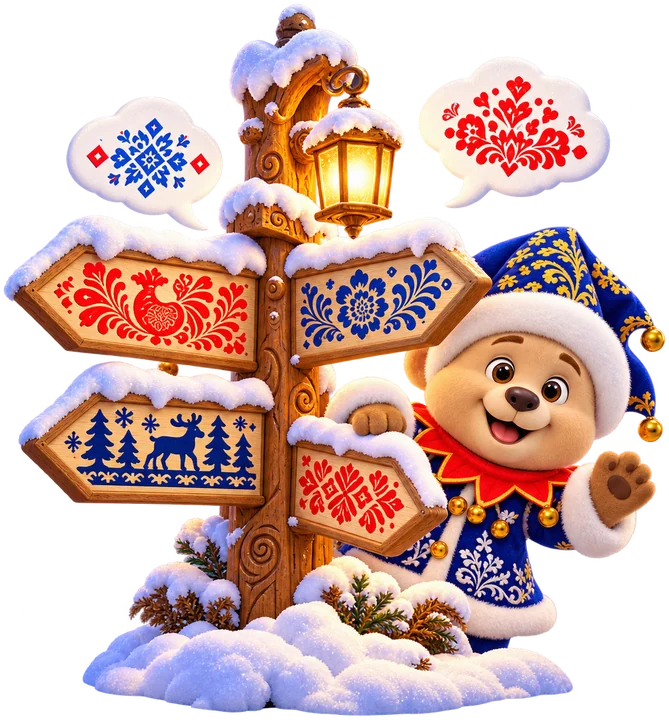
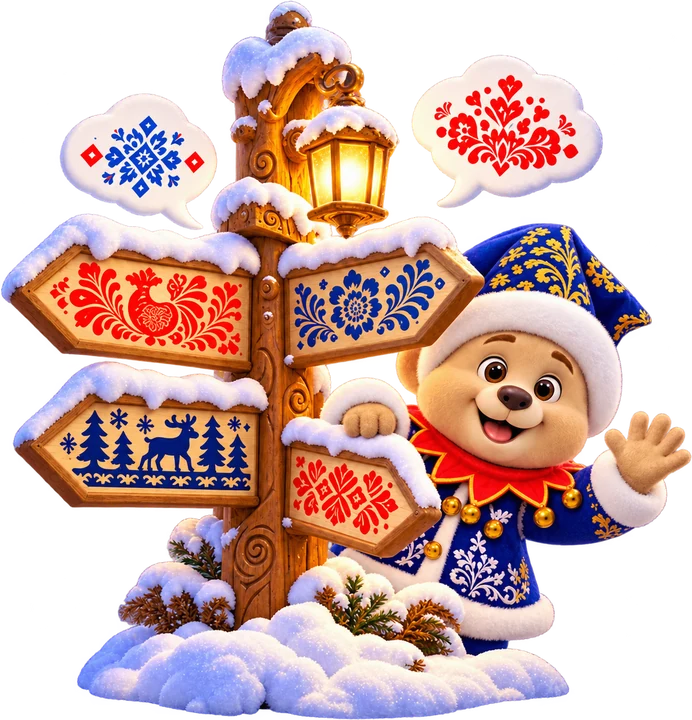
Канон персонажей: Борис и София на карте — по эталону
На главной перерисованы два элемента карты: у Бориса у указателя на поднятой
лапе пять пальцев и светлая ладонь без темных подушечек, у Софии у елки —
медно-рыжее каре вместо длинных волос. Раскладка карты пересчитана под новые
пропорции картинок. В ТЗ (раздел 8 и решение 88) — приметы героев уточнены
по концепции, добавлены эталон и проверка картинок по чек-листу.

Claude-Session: https://claude.ai/code/session_01LYGeS4oKDWhnx7gyPxsXxZ

diff --git a/assets/js/app.js b/assets/js/app.js
@@ -560,7 +560,7 @@ function talesOpen(){return D.TALES.filter(t=>st.day>=t.open).length;}
    кусты, пень, домики, фонари вдоль дороги (картинки из игры «Лес»); 4) элементы активностей, медальоны и подписи.
    Раскладка в единицах (ширина карты = 100, высота — H) собрана скриптом раскладки: дорога, фонари, искры, лес, где что стоит.
    Элементы и деревья перекрывают друг друга по глубине: что ниже на карте — то ближе */
-const RMAP={"m":{"H":345,"road":"M40 -8C38.33 -6.67 34 -2.83 30 0C26 2.83 19.33 5.33 16 9C12.67 12.67 10.5 17.5 10 22C9.5 26.5 12.83 31.33 13 36C13.17 40.67 11.67 45 11 50C10.33 55 8.83 61 9 66C9.17 71 11.83 75 12 80C12.17 85 10.67 90.67 10 96C9.33 101.33 7.83 107 8 112C8.17 117 10.67 121 11 126C11.33 131 10.5 136.67 10 142C9.5 147.33 8 152.67 8 158C8 163.33 9.83 168.67 10 174C10.17 179.33 8.67 184.67 9 190C9.33 195.33 11 200.67 12 206C13 211.33 14.5 219.33 15 222","trails":["M10 54C11.33 55.67 14.67 60.67 18 64C21.33 67.33 28 72.33 30 74","M10 148C11.33 149.67 14.67 155 18 158C21.33 161 28 164.67 30 166","M15 222C16.17 224.33 19.5 229.33 22 236C24.5 242.67 28 251.33 30 262C32 272.67 33.33 293.67 34 300"],"lamps":[[12.38,-4.25],[15.56,46.43],[6.61,71.55],[13.69,98.03],[5.55,122.68],[13.4,149.1],[3.8,174.66]],"glints":[[41.17,-6.57,0.28,2.24],[38.3,-5.24,0.36,1.81],[34.12,-3.87,0.33,0.34],[31.25,-0.18,0.4,2.63],[27.92,1.86,0.3,2.85],[25.08,2.02,0.37,2.18],[23.31,4.29,0.36,0.36],[21.22,5.92,0.35,1.01],[18.94,7.05,0.53,0.59],[17.78,10.2,0.47,0.76],[15.12,13.27,0.37,2.61],[13.21,16.89,0.53,2.27],[8.76,20.0,0.33,0.15],[9.36,24.48,0.44,0.45],[9.19,29.23,0.38,0.95],[11.34,33.13,0.49,1.28],[15.05,37.07,0.48,1.2],[11.01,40.9,0.42,0.61],[13.61,45.66,0.53,1.23],[10.56,49.56,0.29,2.61],[10.51,53.51,0.52,1.65],[11.44,56.18,0.37,0.85],[10.67,58.57,0.47,1.96],[9.68,60.93,0.32,1.45],[8.3,63.65,0.29,1.93],[11.04,67.88,0.4,2.44],[10.08,72.39,0.39,1.0],[10.39,76.67,0.38,1.64],[13.12,80.75,0.3,1.67],[12.5,85.15,0.36,2.43],[12.65,87.67,0.26,2.61],[11.47,90.0,0.47,0.63],[11.53,92.53,0.48,1.49],[9.84,94.75,0.36,2.06],[9.71,97.19,0.49,2.55],[11.2,99.93,0.52,1.15],[8.41,101.98,0.38,0.94],[7.28,104.32,0.54,0.38],[8.6,106.99,0.48,2.41],[5.95,111.25,0.4,0.22],[6.67,116.01,0.53,1.58],[9.78,119.64,0.38,2.35],[11.9,123.59,0.3,2.92],[12.77,128.29,0.5,2.1],[9.44,132.16,0.52,0.26],[9.54,134.58,0.25,0.38],[10.2,137.11,0.26,2.15],[8.25,139.37,0.44,1.58],[10.27,142.03,0.48,0.3],[10.57,144.52,0.53,0.58],[10.37,146.97,0.49,0.0],[8.78,149.17,0.55,0.84],[9.35,151.72,0.5,0.73],[8.13,153.99,0.41,0.09],[8.42,156.42,0.44,0.17],[9.34,158.76,0.52,1.94],[10.0,161.0,0.32,1.27],[9.08,163.51,0.4,2.09],[8.0,166.17,0.36,1.19],[11.47,168.04,0.34,2.54],[11.59,170.56,0.4,0.6],[8.81,173.27,0.31,1.4],[11.02,175.63,0.52,0.33],[9.33,177.96,0.43,2.69],[9.69,180.41,0.52,0.17],[8.94,182.75,0.53,0.16],[11.16,185.37,0.43,1.25],[8.05,187.58,0.31,1.35],[8.08,190.06,0.34,0.34],[11.04,192.17,0.3,0.57],[8.95,194.92,0.41,1.4],[10.88,197.03,0.47,2.52],[8.56,200.07,0.38,0.33],[12.94,201.6,0.27,1.26],[10.05,204.74,0.42,2.28],[12.66,206.72,0.48,0.93],[11.35,209.7,0.28,2.12],[14.47,211.99,0.41,1.34],[14.44,214.86,0.47,1.42],[13.61,217.69,0.32,1.88],[15.28,221.24,0.36,1.39]],"deco":[["tree_3",-10.4,-32.32,16.27,-6.0,1],["tree_2",95.83,-29.0,13.92,-6.0,0],["tree_3",87.82,-28.67,18.25,0.85,0],["tree_3",-13.63,-21.37,14.66,2.35,0],["lamp",10.58,-5.75,3.6,4.97,0],["tree_2",-12.63,-20.75,17.04,7.41,0],["tree_1",86.17,-25.99,14.48,11.62,0],["tree_3",-8.41,-16.5,17.96,12.56,0],["tree_3",89.06,-2.69,15.28,22.04,1],["tree_1",-11.97,-29.16,20.01,22.81,0],["birch",-13.79,-10.62,17.92,30.11,0],["tree_2",92.86,7.67,15.48,33.25,0],["tree_3",-6.76,10.82,16.61,37.69,0],["tree_3",82.7,11.94,18.79,42.34,1],["bush",36,37.35,11,45.0,0],["tree_3",-10.61,16.92,17.47,45.19,1],["tree_3",90.18,20.48,19.11,51.4,0],["tree_1",-12.61,7.95,17.17,52.55,1],["lamp",13.76,44.93,3.6,55.64,0],["tree_3",94.61,35.87,13.99,58.51,0],["tree_1",-7.98,22.87,14.57,60.73,0],["tree_3",89.41,39.66,16.63,66.57,0],["tree_2",-13.59,42.22,16.02,68.69,1],["tree_2",-9.47,51.87,15.06,76.77,0],["tree_3",87.73,55.96,13.4,77.64,0],["lamp",4.81,70.05,3.6,80.76,0],["tree_1",-11.87,35.49,17.91,82.0,1],["fg_7",3,80.88,10,86.0,0],["tree_2",88.63,58.7,16.93,86.68,0],["birch",86.14,58.02,16.59,95.71,0],["birch",-14.88,58.49,17.32,97.85,0],["tree_3",92.91,79.58,16.55,106.37,0],["lamp",11.89,96.53,3.6,107.24,0],["birch",-11.19,72.19,16.7,110.15,0],["tree_2",-15.43,86.33,18.28,116.54,0],["tree_3",96.88,93.78,14.82,117.76,1],["tree_2",89.12,100.17,15.92,126.48,1],["tree_2",-7.99,103.9,15.16,128.97,0],["stump",40,126.48,10,131.0,1],["lamp",3.75,121.18,3.6,131.9,0],["birch",88.09,103.37,13.51,134.08,1],["birch",90.78,100.08,19.58,144.57,1],["tree_3",92.06,123.64,19.77,155.64,1],["tree_3",-13.76,124.77,19.82,156.84,1],["lamp",11.6,147.6,3.6,158.31,0],["tree_3",-11.47,136.66,16.58,163.5,1],["birch",96.25,134.58,14.14,166.72,1],["tree_1",88.44,132.21,16.61,175.35,1],["fg_6",4,172.69,9,178.0,0],["tree_1",91.08,141.73,15.56,182.15,1],["tree_2",-9.62,155.92,16.79,183.68,1],["lamp",2.0,173.16,3.6,183.88,0],["tree_3",87.07,163.75,15.32,188.54,0],["tree_2",-15.5,154.85,20.89,189.38,1],["tree_3",-7.56,171.84,14.0,194.5,0],["tree_3",95.83,164.01,19.43,195.45,1],["tree_3",-6.88,178.53,14.49,201.98,1],["tree_3",87.69,181.7,13.28,203.19,1],["tree_1",-9.53,165.26,16.43,207.94,1],["tree_1",86.81,161.43,19.38,211.77,0],["tree_2",-11.62,180.43,20.84,214.89,1],["tree_1",-9.46,177.62,16.4,220.22,0],["tree_1",83.2,178.09,16.46,220.85,1],["tree_3",-10.38,202.31,15.44,227.28,0],["snowman",49,222.59,6,230.0,0],["tree_2",86.31,204.45,15.98,230.86,1],["bush",44,224.35,11,232.0,1],["fg_5",30,227.96,10,234.0,0],["tree_2",-0.91,215.3,12.52,236.0,0],["tree_3",96.29,213.65,14.82,237.64,1],["tree_1",-10.22,195.53,18.87,244.55,0],["tree_1",97.82,206.58,16.18,248.6,1],["tree_2",89.75,231.16,17.35,259.84,1],["tree_3",-14.19,234.53,19.18,265.57,1],["tree_2",85.83,243.38,14.13,266.73,0],["tree_1",-11.8,219.18,20.93,273.54,1],["tree_3",86.28,249.38,16.72,276.43,0],["tree_2",98.2,258.19,15.43,283.69,1],["tree_3",-14.05,263.1,16.55,289.89,1],["tree_3",89.96,263.33,16.54,290.09,1],["birch",88.11,258.78,17.61,298.8,1],["birch",-15.27,260.91,18.57,303.12,0],["tree_3",87.05,284.12,15.75,309.61,1],["tree_3",-11.0,280.33,19.48,311.84,1],["birch",94.47,284.44,14.39,317.15,1],["birch",-10.41,282.95,16.33,320.06,1],["tree_3",80.29,296.64,19.87,328.79,0],["fg_7",8,333.39,9,338.0,0],["tree_2",-9.01,306.76,19.79,339.46,1],["tree_2",83.34,313.37,16.02,339.84,0],["bush",44,335.35,11,343.0,1]],"items":{"quiz":{"el":[15,1,40],"med":[13,13],"pn":[57,8,41],"h":43.06},"serial":{"el":[20,46,36],"pn":[57,52,41],"h":33.0},"forest":{"el":[16,88,38],"med":[9.5,100],"pn":[57,96,41],"h":40.3},"izba":{"el":[21,135,33],"pn":[57,142,41],"h":33.13},"tree":{"el":[17,180,29],"med":[9,190],"pn":[57,188,41],"h":41.67},"ctree":{"el":[5,236,64],"pn":[61,246,37],"h":76.8},"chest":{"el":[22,303,28],"pn":[57,306,41],"h":23.97}},"fences":[[[10.95,6.28],[8.79,9.26],[7.04,12.45],[5.42,16.63],[4.61,20.07],[4.5,25.14],[5.32,28.77],[6.53,32.45],[7.19,34.76],[7.41,36.46],[7.25,39.11],[6.75,42.15],[6.19,44.92],[5.51,48.83],[5.06,51.79],[4.58,54.58]],[[15.64,70.66],[16.72,74.28],[17.44,77.82],[17.6,81.67],[17.33,85.27]],[[15.32,98.44],[14.83,101.4],[14.28,104.63],[13.84,107.63],[13.6,110.63],[13.67,112.8],[14.24,115.49],[15.0,118.05]],[[3.88,145.51],[3.35,148.68],[2.84,152.06],[2.48,155.65],[2.44,159.47],[2.74,162.73],[3.28,166.17],[3.84,169.34],[4.26,172.21],[4.41,174.81],[4.29,177.53],[3.97,180.55],[3.6,183.86],[3.36,187.46],[3.48,191.28]]],"roadW":6.2,"trailW":2.6},"d":{"H":104,"road":"M50 -6C49.83 -5 49.67 -2.33 49 0C48.33 2.33 46.33 5.33 46 8C45.67 10.67 46 13.67 47 16C48 18.33 50.83 20 52 22C53.17 24 54.17 26 54 28C53.83 30 52.17 32 51 34C49.83 36 47.5 37.67 47 40C46.5 42.33 47 45.67 48 48C49 50.33 52 52 53 54C54 56 54.5 58 54 60C53.5 62 51.17 64 50 66C48.83 68 47.17 69.67 47 72C46.83 74.33 48.67 78.67 49 80","trails":["M53 24C53.83 24.33 56.17 25.17 58 26C59.83 26.83 63 28.5 64 29","M53 56C53.83 56.17 56.33 56.67 58 57C59.67 57.33 62.17 57.83 63 58","M49 78C50.17 79.33 53.5 84 56 86C58.5 88 62.67 89.33 64 90"],"lamps":[[45.7,15.17],[56.5,26.04],[45.51,45.38],[57.16,53.13],[46.48,61.56],[51.23,72.8]],"glints":[[49.52,-6.07,0.51,1.24],[50.77,-3.52,0.36,1.19],[49.75,-0.96,0.42,0.08],[48.0,1.28,0.53,1.25],[47.23,3.31,0.4,0.94],[47.26,5.76,0.54,2.99],[45.55,7.5,0.43,0.19],[46.07,9.64,0.45,2.9],[46.68,11.64,0.52,2.7],[46.87,13.61,0.42,1.1],[46.22,16.59,0.53,0.2],[48.41,18.4,0.34,1.71],[50.54,19.16,0.31,2.04],[51.95,21.61,0.36,1.02],[52.47,24.23,0.27,0.17],[53.99,26.17,0.51,2.71],[53.27,28.32,0.32,0.41],[53.37,30.88,0.32,2.26],[50.86,32.44,0.35,0.18],[50.57,35.47,0.4,2.68],[49.3,38.01,0.53,0.63],[47.7,39.84,0.44,2.8],[45.92,42.33,0.32,0.18],[46.14,44.56,0.37,2.17],[47.99,46.34,0.32,1.51],[48.57,48.78,0.3,1.11],[49.48,50.97,0.26,0.97],[52.09,51.27,0.51,1.8],[52.1,54.64,0.28,0.93],[53.56,56.5,0.47,2.32],[53.01,58.61,0.47,1.93],[53.75,60.95,0.54,2.55],[52.35,63.32,0.29,2.53],[50.74,65.65,0.25,0.22],[48.8,67.49,0.44,2.47],[48.7,70.27,0.26,2.26],[47.37,72.19,0.35,0.35],[46.28,74.74,0.44,2.8],[47.85,76.87,0.37,2.22],[48.51,79.12,0.33,2.97]],"deco":[["tree_1",-5.75,-26.99,8.85,-4.0,1],["tree_2",97.11,-16.13,7.34,-4.0,1],["tree_2",37.21,-10.93,4.8,-3.0,1],["birch",69.37,-15.73,5.6,-3.0,1],["tree_3",97.65,-14.62,7.76,-2.07,1],["tree_3",16.81,-14.08,7.47,-2.0,0],["tree_2",76.99,-15.18,7.98,-2.0,0],["tree_2",62.06,-8.51,4.43,-1.18,0],["tree_2",0.81,-14.93,8.35,-1.12,1],["tree_3",94.61,-15.58,9.5,-0.21,1],["birch",36.96,-12.28,5.37,-0.08,1],["tree_3",22.07,-8.61,5.52,0.32,0],["tree_3",59.79,-7.09,5.33,1.53,0],["tree_2",-1.45,-14.09,9.47,1.56,1],["tree_2",77.67,-9.08,6.73,2.04,1],["tree_1",89.92,-18.83,8.34,2.82,0],["izba_2",31,-1.55,6.5,3.4,1],["tree_3",16.12,-8.17,7.39,3.78,0],["birch",58.36,-6.31,4.53,4.0,1],["tree_2",-7.83,-13.0,10.81,4.86,1],["izba_1",62,-0.42,7,5.0,0],["tree_3",77.2,-6.86,7.58,5.4,0],["tree_2",96.88,-12.46,10.91,5.56,1],["tree_3",-7.88,-7.75,9.03,6.85,0],["tree_2",13.08,-3.03,6.51,7.72,0],["tree_3",91.96,-4.9,7.93,7.93,1],["tree_1",76.6,-5.07,5.02,7.97,1],["tree_1",-7.22,-17.5,10.55,9.9,1],["birch",100.02,-7.08,7.48,9.92,1],["birch",14.68,-3.97,6.25,10.23,0],["tree_1",73.59,-7.77,7.3,11.21,1],["tree_3",91.57,-1.46,8.87,12.9,0],["tree_1",-0.17,-14.47,10.56,12.96,1],["tree_2",18.56,4.96,5.28,13.69,1],["tree_3",97.32,3.48,7.02,14.84,1],["birch",1.28,-0.99,7.17,15.31,0],["tree_2",94.47,1.45,9.44,17.06,1],["tree_1",17.44,-3.28,7.85,17.11,0],["tree_2",-6.87,3.14,8.52,17.22,1],["tree_1",79.48,-1.92,7.64,17.94,1],["lamp",44.85,14.46,1.7,19.52,0],["tree_3",-9.16,3.35,10.4,20.19,0],["tree_1",95.6,-2.84,8.9,20.28,1],["tree_1",78.6,2.99,6.69,20.36,0],["tree_2",15.64,9.3,6.94,20.77,0],["tree_1",90.34,1.15,8.1,22.19,1],["tree_1",-9.12,-4.72,10.41,22.31,1],["tree_2",97.84,6.5,10.93,24.56,0],["tree_2",-1.81,13.29,7.07,24.98,0],["tree_2",14.84,16.4,5.89,26.13,0],["tree_3",-1.25,15.33,7.28,27.1,1],["tree_2",88.86,9.85,10.87,27.82,1],["tree_2",75.99,17.21,7.49,29.6,1],["tree_3",-0.65,17.39,7.69,29.83,1],["bush",41,26.52,5,30.0,0],["birch",16.43,16.28,6.11,30.17,0],["tree_3",93.33,16.88,8.29,30.29,0],["lamp",55.65,25.33,1.7,30.39,0],["tree_2",37.03,22.79,4.61,30.4,1],["tree_3",-1.41,16.32,9.73,32.07,0],["tree_1",93.09,12.38,7.84,32.73,1],["birch",-3.54,18.57,7.14,34.79,0],["tree_2",16.01,26.86,5.14,35.36,0],["tree_2",91.45,21.41,8.82,35.99,1],["tree_2",59.34,27.61,5.4,36.53,1],["birch",-4.85,16.36,9.02,36.86,0],["tree_2",77.67,25.15,7.33,37.27,1],["tree_3",90.43,25.89,7.68,38.32,1],["tree_3",59.43,31.64,4.62,39.12,1],["tree_2",-0.38,22.91,10.1,39.6,1],["tree_2",71.34,26.9,7.73,39.68,0],["birch",89.57,16.65,10.59,40.71,0],["fg_7",61,38.7,4.5,41.0,1],["tree_3",-4.21,29.1,8.46,42.8,0],["tree_3",18.37,32.35,6.72,43.22,1],["birch",96.64,22.67,9.4,44.03,1],["tree_3",-4.25,34.07,7.07,45.51,1],["tree_2",96.53,32.91,8.34,46.7,1],["birch",16.7,34.13,5.58,46.81,0],["tree_1",-0.24,24.87,8.78,47.67,1],["tree_3",94.07,32.84,9.91,48.87,1],["birch",77.86,36.46,5.58,49.14,1],["lamp",44.66,44.68,1.7,49.74,0],["tree_2",-8.28,34.94,9.07,49.93,0],["tree_3",89.38,33.43,10.67,50.7,1],["tree_3",16.58,42.51,5.1,50.76,1],["tree_1",81.25,38.48,5.26,52.16,0],["birch",-0.72,32.58,8.99,53.01,0],["tree_3",16.54,41.59,7.39,53.55,0],["tree_3",93.7,42.35,7.17,53.95,0],["tree_3",75.28,46.56,5.06,54.75,1],["tree_2",0.85,39.08,9.59,54.93,1],["birch",19.76,42.09,6.08,55.9,1],["tree_2",95.41,39.78,10.16,56.57,1],["tree_3",75.22,48.62,5.32,57.22,0],["tree_1",-7.83,30.22,10.44,57.33,1],["lamp",56.31,52.42,1.7,57.48,0],["tree_2",27.82,50.6,4.69,58.35,0],["fg_6",74,56.64,4,59.0,0],["tree_3",94.57,45.17,9.02,59.77,1],["stump",36,57.96,4.5,60.0,0],["tree_2",-8.75,42.88,10.5,60.24,0],["tree_1",79.37,46.99,5.4,61.03,1],["tree_2",-3.33,44.5,10.79,62.33,1],["birch",14.57,47.6,6.53,62.43,0],["tree_2",95.77,50.17,7.81,63.07,0],["tree_2",-4.97,51.29,7.83,64.24,1],["lamp",45.63,60.85,1.7,65.91,0],["tree_3",90.24,53.62,7.71,66.1,0],["tree_2",17.48,54.74,6.93,66.2,1],["tree_1",77.26,50.65,6.39,67.26,0],["tree_2",-2.45,53.85,8.14,67.31,1],["birch",93.81,47.69,8.92,67.96,0],["birch",-7.43,48.3,9.22,69.26,1],["tree_3",94.44,56.75,8.14,69.92,0],["tree_2",76.78,59.04,6.96,70.54,1],["tree_2",-2.74,56.02,9.25,71.3,0],["birch",96.62,53.18,8.32,72.1,0],["tree_3",18.11,59.82,7.94,72.67,1],["tree_1",90.21,52.93,8.11,74.0,1],["tree_3",0.75,61.06,8.1,74.16,1],["tree_3",-6.31,64.49,7.19,76.13,0],["tree_3",18.49,65.67,6.56,76.28,1],["tree_2",78.78,65.24,6.84,76.53,1],["tree_2",93.7,61.04,9.68,77.04,1],["lamp",50.38,72.1,1.7,77.16,0],["tree_3",0.77,66.86,7.65,79.23,1],["tree_2",78.09,70.21,5.46,79.23,1],["tree_1",19.84,63.74,6.14,79.69,0],["tree_2",92.4,67.57,7.54,80.02,1],["tree_3",-4.8,66.64,9.37,81.79,1],["tree_3",99.64,68.85,8.69,82.91,0],["tree_3",20.02,75.35,5.22,83.8,1],["tree_3",-8.73,66.91,10.79,84.36,0],["tree_2",93.23,71.0,8.98,85.85,0],["tree_2",-3.23,71.65,9.34,87.09,0],["tree_3",15.22,75.06,7.67,87.47,1],["birch",99.27,69.17,8.75,89.05,0],["tree_2",-0.54,72.16,10.64,89.75,0],["tree_3",18.73,79.1,7.42,91.11,1],["snowman",43,88.54,2.8,92.0,0],["tree_2",97.48,74.36,10.86,92.31,1],["tree_3",-0.42,81.32,7.26,93.06,1],["tree_3",91.42,80.14,8.88,94.51,0],["tree_2",12.92,82.56,7.32,94.65,0],["fg_5",33,91.98,5,95.0,0],["tree_2",0.48,81.4,8.81,95.97,0],["tree_3",25.71,87.67,5.53,96.61,0],["tree_2",79.91,87.79,5.69,97.19,0],["birch",91.65,76.97,9.16,97.79,0],["fg_7",52,95.95,4,98.0,0],["tree_2",16.35,85.92,7.46,98.26,0],["tree_3",1.23,87.33,7.12,98.85,1],["tree_3",94.88,83.69,9.87,99.65,1],["tree_2",27.34,91.46,5.1,99.89,1],["bush",73,97.52,5,101.0,1],["tree_2",15.02,93.25,5.22,101.89,0],["tree_3",-4.0,85.9,9.92,101.95,1],["tree_2",41.7,92.69,5.84,102.34,1],["tree_3",93.24,89.61,8.13,102.77,1],["birch",72.85,88.07,7.0,103.98,1]],"items":{"quiz":{"el":[24,2.5,20],"med":[46.4,7],"pn":[3,7,19],"h":21.53},"serial":{"el":[58,13,18],"pn":[79,15,19],"h":16.5},"forest":{"el":[25,32,19],"med":[49.5,37.5],"pn":[3,37,19],"h":20.15},"izba":{"el":[59,44,16],"pn":[79,45,19],"h":16.06},"tree":{"el":[27,62,15],"med":[49.2,67.5],"pn":[3,67,19],"h":21.55},"ctree":{"el":[55,61,23],"pn":[79,65,19],"h":27.6},"chest":{"el":[60,86,12],"pn":[79,86.5,19],"h":10.27}},"fences":[[[50.95,3.03],[50.2,4.68],[49.67,5.84],[49.25,6.92],[48.92,8.12],[48.79,9.36],[48.78,10.39],[48.88,11.78],[49.04,12.78],[49.41,14.17],[49.84,15.19]],[[49.41,23.32],[50.04,24.42],[50.6,25.56],[50.96,26.54],[51.11,27.33],[51.09,27.91],[50.69,28.95],[50.05,30.07],[49.5,30.93],[48.61,32.34],[47.91,33.37],[46.9,34.57]],[[49.92,44.32],[50.25,45.68],[50.6,46.7],[51.12,47.58],[51.71,48.24],[52.81,49.32],[53.91,50.41],[55.32,52.2],[56.16,53.96],[56.74,55.67],[57.06,57.49],[56.95,60.06]]],"roadW":3.4,"trailW":1.4}};
+const RMAP={"m":{"H":345,"road":"M40 -8C38.33 -6.67 34 -2.83 30 0C26 2.83 19.33 5.33 16 9C12.67 12.67 10.5 17.5 10 22C9.5 26.5 12.83 31.33 13 36C13.17 40.67 11.67 45 11 50C10.33 55 8.83 61 9 66C9.17 71 11.83 75 12 80C12.17 85 10.67 90.67 10 96C9.33 101.33 7.83 107 8 112C8.17 117 10.67 121 11 126C11.33 131 10.5 136.67 10 142C9.5 147.33 8 152.67 8 158C8 163.33 9.83 168.67 10 174C10.17 179.33 8.67 184.67 9 190C9.33 195.33 11 200.67 12 206C13 211.33 14.5 219.33 15 222","trails":["M10 54C11.33 55.67 14.67 60.67 18 64C21.33 67.33 28 72.33 30 74","M10 148C11.33 149.67 14.67 155 18 158C21.33 161 28 164.67 30 166","M15 222C16.17 224.33 19.5 229.33 22 236C24.5 242.67 28 251.33 30 262C32 272.67 33.33 293.67 34 300"],"lamps":[[12.38,-4.25],[15.84,44.79],[6.57,70.48],[13.69,98.03],[5.55,122.68],[13.4,149.1],[3.8,174.66]],"glints":[[41.17,-6.57,0.28,2.24],[38.3,-5.24,0.36,1.81],[34.12,-3.87,0.33,0.34],[31.25,-0.18,0.4,2.63],[27.92,1.86,0.3,2.85],[25.08,2.02,0.37,2.18],[23.31,4.29,0.36,0.36],[21.22,5.92,0.35,1.01],[18.94,7.05,0.53,0.59],[17.78,10.2,0.47,0.76],[15.12,13.27,0.37,2.61],[13.21,16.89,0.53,2.27],[8.76,20.0,0.33,0.15],[9.36,24.48,0.44,0.45],[9.19,29.23,0.38,0.95],[11.34,33.13,0.49,1.28],[15.05,37.07,0.48,1.2],[11.01,40.9,0.42,0.61],[13.61,45.66,0.53,1.23],[10.56,49.56,0.29,2.61],[10.51,53.51,0.52,1.65],[11.44,56.18,0.37,0.85],[10.67,58.57,0.47,1.96],[9.68,60.93,0.32,1.45],[8.3,63.65,0.29,1.93],[11.04,67.88,0.4,2.44],[10.08,72.39,0.39,1.0],[10.39,76.67,0.38,1.64],[13.12,80.75,0.3,1.67],[12.5,85.15,0.36,2.43],[12.65,87.67,0.26,2.61],[11.47,90.0,0.47,0.63],[11.53,92.53,0.48,1.49],[9.84,94.75,0.36,2.06],[9.71,97.19,0.49,2.55],[11.2,99.93,0.52,1.15],[8.41,101.98,0.38,0.94],[7.28,104.32,0.54,0.38],[8.6,106.99,0.48,2.41],[5.95,111.25,0.4,0.22],[6.67,116.01,0.53,1.58],[9.78,119.64,0.38,2.35],[11.9,123.59,0.3,2.92],[12.77,128.29,0.5,2.1],[9.44,132.16,0.52,0.26],[9.54,134.58,0.25,0.38],[10.2,137.11,0.26,2.15],[8.25,139.37,0.44,1.58],[10.27,142.03,0.48,0.3],[10.57,144.52,0.53,0.58],[10.37,146.97,0.49,0.0],[8.78,149.17,0.55,0.84],[9.35,151.72,0.5,0.73],[8.13,153.99,0.41,0.09],[8.42,156.42,0.44,0.17],[9.34,158.76,0.52,1.94],[10.0,161.0,0.32,1.27],[9.08,163.51,0.4,2.09],[8.0,166.17,0.36,1.19],[11.47,168.04,0.34,2.54],[11.59,170.56,0.4,0.6],[8.81,173.27,0.31,1.4],[11.02,175.63,0.52,0.33],[9.33,177.96,0.43,2.69],[9.69,180.41,0.52,0.17],[8.94,182.75,0.53,0.16],[11.16,185.37,0.43,1.25],[8.05,187.58,0.31,1.35],[8.08,190.06,0.34,0.34],[11.04,192.17,0.3,0.57],[8.95,194.92,0.41,1.4],[10.88,197.03,0.47,2.52],[8.56,200.07,0.38,0.33],[12.94,201.6,0.27,1.26],[10.05,204.74,0.42,2.28],[12.66,206.72,0.48,0.93],[11.35,209.7,0.28,2.12],[14.47,211.99,0.41,1.34],[14.44,214.86,0.47,1.42],[13.61,217.69,0.32,1.88],[15.28,221.24,0.36,1.39]],"deco":[["tree_3",-10.4,-32.32,16.27,-6.0,1],["tree_2",95.83,-29.0,13.92,-6.0,0],["tree_3",87.82,-28.67,18.25,0.85,0],["tree_3",-13.63,-21.37,14.66,2.35,0],["lamp",10.58,-5.75,3.6,4.97,0],["tree_2",-12.63,-20.75,17.04,7.41,0],["tree_1",86.17,-25.99,14.48,11.62,0],["tree_3",-8.41,-16.5,17.96,12.56,0],["tree_3",89.06,-2.69,15.28,22.04,1],["tree_1",-11.97,-29.16,20.01,22.81,0],["birch",-13.79,-10.62,17.92,30.11,0],["tree_2",92.86,7.67,15.48,33.25,0],["tree_3",-6.76,10.82,16.61,37.69,0],["tree_3",82.7,11.94,18.79,42.34,1],["bush",36,37.35,11,45.0,0],["tree_3",-10.61,16.92,17.47,45.19,1],["tree_3",90.18,20.48,19.11,51.4,0],["tree_1",-12.61,7.95,17.17,52.55,1],["lamp",14.04,43.29,3.6,54.0,0],["tree_3",94.61,35.87,13.99,58.51,0],["tree_1",-7.98,22.87,14.57,60.73,0],["tree_3",89.41,39.66,16.63,66.57,0],["tree_2",-13.59,42.22,16.02,68.69,1],["tree_2",-9.47,51.87,15.06,76.77,0],["tree_3",87.73,55.96,13.4,77.64,0],["lamp",4.77,68.98,3.6,79.7,0],["tree_1",-11.87,35.49,17.91,82.0,1],["fg_7",3,80.88,10,86.0,0],["tree_2",88.63,58.7,16.93,86.68,0],["birch",86.14,58.02,16.59,95.71,0],["birch",-14.88,58.49,17.32,97.85,0],["tree_3",92.91,79.58,16.55,106.37,0],["lamp",11.89,96.53,3.6,107.24,0],["birch",-11.19,72.19,16.7,110.15,0],["tree_2",-15.43,86.33,18.28,116.54,0],["tree_3",96.88,93.78,14.82,117.76,1],["tree_2",89.12,100.17,15.92,126.48,1],["tree_2",-7.99,103.9,15.16,128.97,0],["stump",40,126.48,10,131.0,1],["lamp",3.75,121.18,3.6,131.9,0],["birch",88.09,103.37,13.51,134.08,1],["birch",90.78,100.08,19.58,144.57,1],["tree_3",92.06,123.64,19.77,155.64,1],["tree_3",-13.76,124.77,19.82,156.84,1],["lamp",11.6,147.6,3.6,158.31,0],["tree_3",-11.47,136.66,16.58,163.5,1],["birch",96.25,134.58,14.14,166.72,1],["tree_1",88.44,132.21,16.61,175.35,1],["fg_6",4,172.69,9,178.0,0],["tree_1",91.08,141.73,15.56,182.15,1],["tree_2",-9.62,155.92,16.79,183.68,1],["lamp",2.0,173.16,3.6,183.88,0],["tree_3",87.07,163.75,15.32,188.54,0],["tree_2",-15.5,154.85,20.89,189.38,1],["tree_3",-7.56,171.84,14.0,194.5,0],["tree_3",95.83,164.01,19.43,195.45,1],["tree_3",-6.88,178.53,14.49,201.98,1],["tree_3",87.69,181.7,13.28,203.19,1],["tree_1",-9.53,165.26,16.43,207.94,1],["tree_1",86.81,161.43,19.38,211.77,0],["tree_2",-11.62,180.43,20.84,214.89,1],["tree_1",-9.46,177.62,16.4,220.22,0],["tree_1",83.2,178.09,16.46,220.85,1],["tree_3",-10.38,202.31,15.44,227.28,0],["snowman",49,222.59,6,230.0,0],["tree_2",86.31,204.45,15.98,230.86,1],["bush",44,224.35,11,232.0,1],["fg_5",30,227.96,10,234.0,0],["tree_2",-0.91,215.3,12.52,236.0,0],["tree_3",96.29,213.65,14.82,237.64,1],["tree_1",-10.22,195.53,18.87,244.55,0],["tree_1",97.82,206.58,16.18,248.6,1],["tree_2",89.75,231.16,17.35,259.84,1],["tree_3",-14.19,234.53,19.18,265.57,1],["tree_2",85.83,243.38,14.13,266.73,0],["tree_1",-11.8,219.18,20.93,273.54,1],["tree_3",86.28,249.38,16.72,276.43,0],["tree_2",98.2,258.19,15.43,283.69,1],["tree_3",-14.05,263.1,16.55,289.89,1],["tree_3",89.96,263.33,16.54,290.09,1],["birch",88.11,258.78,17.61,298.8,1],["birch",-15.27,260.91,18.57,303.12,0],["tree_3",87.05,284.12,15.75,309.61,1],["tree_3",-11.0,280.33,19.48,311.84,1],["birch",94.47,284.44,14.39,317.15,1],["birch",-10.41,282.95,16.33,320.06,1],["tree_3",80.29,296.64,19.87,328.79,0],["fg_7",8,333.39,9,338.0,0],["tree_2",-9.01,306.76,19.79,339.46,1],["tree_2",83.34,313.37,16.02,339.84,0],["bush",44,335.35,11,343.0,1]],"items":{"quiz":{"el":[15,1,40],"med":[13,13],"pn":[57,8,41],"h":41.62},"serial":{"el":[20,46,36],"pn":[57,52,41],"h":33.0},"forest":{"el":[16,88,38],"med":[9.5,100],"pn":[57,96,41],"h":40.3},"izba":{"el":[21,135,33],"pn":[57,142,41],"h":33.13},"tree":{"el":[17,180,29],"med":[9,190],"pn":[57,188,41],"h":43.61},"ctree":{"el":[5,236,64],"pn":[61,246,37],"h":76.8},"chest":{"el":[22,303,28],"pn":[57,306,41],"h":23.97}},"fences":[[[10.95,6.28],[8.79,9.26],[7.04,12.45],[5.42,16.63],[4.61,20.07],[4.5,25.14],[5.32,28.77],[6.53,32.45],[7.19,34.76],[7.41,36.46],[7.25,39.11],[6.75,42.15],[6.19,44.92],[5.51,48.83],[5.06,51.79],[4.58,54.58]],[[15.64,70.66],[16.72,74.28],[17.44,77.82],[17.6,81.67],[17.33,85.27]],[[15.32,98.44],[14.83,101.4],[14.28,104.63],[13.84,107.63],[13.6,110.63],[13.67,112.8],[14.24,115.49],[15.0,118.05]],[[3.88,145.51],[3.35,148.68],[2.84,152.06],[2.48,155.65],[2.44,159.47],[2.74,162.73],[3.28,166.17],[3.84,169.34],[4.26,172.21],[4.41,174.81],[4.29,177.53],[3.97,180.55],[3.6,183.86],[3.36,187.46],[3.48,191.28]]],"roadW":6.2,"trailW":2.6},"d":{"H":104,"road":"M50 -6C49.83 -5 49.67 -2.33 49 0C48.33 2.33 46.33 5.33 46 8C45.67 10.67 46 13.67 47 16C48 18.33 50.83 20 52 22C53.17 24 54.17 26 54 28C53.83 30 52.17 32 51 34C49.83 36 47.5 37.67 47 40C46.5 42.33 47 45.67 48 48C49 50.33 52 52 53 54C54 56 54.5 58 54 60C53.5 62 51.17 64 50 66C48.83 68 47.17 69.67 47 72C46.83 74.33 48.67 78.67 49 80","trails":["M53 24C53.83 24.33 56.17 25.17 58 26C59.83 26.83 63 28.5 64 29","M53 56C53.83 56.17 56.33 56.67 58 57C59.67 57.33 62.17 57.83 63 58","M49 78C50.17 79.33 53.5 84 56 86C58.5 88 62.67 89.33 64 90"],"lamps":[[45.7,15.17],[56.5,26.04],[45.51,45.38],[57.16,53.13],[46.48,61.56],[51.23,72.8]],"glints":[[49.52,-6.07,0.51,1.24],[50.77,-3.52,0.36,1.19],[49.75,-0.96,0.42,0.08],[48.0,1.28,0.53,1.25],[47.23,3.31,0.4,0.94],[47.26,5.76,0.54,2.99],[45.55,7.5,0.43,0.19],[46.07,9.64,0.45,2.9],[46.68,11.64,0.52,2.7],[46.87,13.61,0.42,1.1],[46.22,16.59,0.53,0.2],[48.41,18.4,0.34,1.71],[50.54,19.16,0.31,2.04],[51.95,21.61,0.36,1.02],[52.47,24.23,0.27,0.17],[53.99,26.17,0.51,2.71],[53.27,28.32,0.32,0.41],[53.37,30.88,0.32,2.26],[50.86,32.44,0.35,0.18],[50.57,35.47,0.4,2.68],[49.3,38.01,0.53,0.63],[47.7,39.84,0.44,2.8],[45.92,42.33,0.32,0.18],[46.14,44.56,0.37,2.17],[47.99,46.34,0.32,1.51],[48.57,48.78,0.3,1.11],[49.48,50.97,0.26,0.97],[52.09,51.27,0.51,1.8],[52.1,54.64,0.28,0.93],[53.56,56.5,0.47,2.32],[53.01,58.61,0.47,1.93],[53.75,60.95,0.54,2.55],[52.35,63.32,0.29,2.53],[50.74,65.65,0.25,0.22],[48.8,67.49,0.44,2.47],[48.7,70.27,0.26,2.26],[47.37,72.19,0.35,0.35],[46.28,74.74,0.44,2.8],[47.85,76.87,0.37,2.22],[48.51,79.12,0.33,2.97]],"deco":[["tree_1",-5.75,-26.99,8.85,-4.0,1],["tree_2",97.11,-16.13,7.34,-4.0,1],["tree_2",37.21,-10.93,4.8,-3.0,1],["birch",69.37,-15.73,5.6,-3.0,1],["tree_3",97.65,-14.62,7.76,-2.07,1],["tree_3",16.81,-14.08,7.47,-2.0,0],["tree_2",76.99,-15.18,7.98,-2.0,0],["tree_2",62.06,-8.51,4.43,-1.18,0],["tree_2",0.81,-14.93,8.35,-1.12,1],["tree_3",94.61,-15.58,9.5,-0.21,1],["birch",36.96,-12.28,5.37,-0.08,1],["tree_3",22.07,-8.61,5.52,0.32,0],["tree_3",59.79,-7.09,5.33,1.53,0],["tree_2",-1.45,-14.09,9.47,1.56,1],["tree_2",77.67,-9.08,6.73,2.04,1],["tree_1",89.92,-18.83,8.34,2.82,0],["izba_2",31,-1.55,6.5,3.4,1],["tree_3",16.12,-8.17,7.39,3.78,0],["birch",58.36,-6.31,4.53,4.0,1],["tree_2",-7.83,-13.0,10.81,4.86,1],["izba_1",62,-0.42,7,5.0,0],["tree_3",77.2,-6.86,7.58,5.4,0],["tree_2",96.88,-12.46,10.91,5.56,1],["tree_3",-7.88,-7.75,9.03,6.85,0],["tree_2",13.08,-3.03,6.51,7.72,0],["tree_3",91.96,-4.9,7.93,7.93,1],["tree_1",76.6,-5.07,5.02,7.97,1],["tree_1",-7.22,-17.5,10.55,9.9,1],["birch",100.02,-7.08,7.48,9.92,1],["birch",14.68,-3.97,6.25,10.23,0],["tree_1",73.59,-7.77,7.3,11.21,1],["tree_3",91.57,-1.46,8.87,12.9,0],["tree_1",-0.17,-14.47,10.56,12.96,1],["tree_2",18.56,4.96,5.28,13.69,1],["tree_3",97.32,3.48,7.02,14.84,1],["birch",1.28,-0.99,7.17,15.31,0],["tree_2",94.47,1.45,9.44,17.06,1],["tree_1",17.44,-3.28,7.85,17.11,0],["tree_2",-6.87,3.14,8.52,17.22,1],["tree_1",79.48,-1.92,7.64,17.94,1],["lamp",44.85,14.46,1.7,19.52,0],["tree_3",-9.16,3.35,10.4,20.19,0],["tree_1",95.6,-2.84,8.9,20.28,1],["tree_1",78.6,2.99,6.69,20.36,0],["tree_2",15.64,9.3,6.94,20.77,0],["tree_1",90.34,1.15,8.1,22.19,1],["tree_1",-9.12,-4.72,10.41,22.31,1],["tree_2",97.84,6.5,10.93,24.56,0],["tree_2",-1.81,13.29,7.07,24.98,0],["tree_2",14.84,16.4,5.89,26.13,0],["tree_3",-1.25,15.33,7.28,27.1,1],["tree_2",88.86,9.85,10.87,27.82,1],["tree_2",75.99,17.21,7.49,29.6,1],["tree_3",-0.65,17.39,7.69,29.83,1],["bush",41,26.52,5,30.0,0],["birch",16.43,16.28,6.11,30.17,0],["tree_3",93.33,16.88,8.29,30.29,0],["lamp",55.65,25.33,1.7,30.39,0],["tree_2",37.03,22.79,4.61,30.4,1],["tree_3",-1.41,16.32,9.73,32.07,0],["tree_1",93.09,12.38,7.84,32.73,1],["birch",-3.54,18.57,7.14,34.79,0],["tree_2",16.01,26.86,5.14,35.36,0],["tree_2",91.45,21.41,8.82,35.99,1],["tree_2",59.34,27.61,5.4,36.53,1],["birch",-4.85,16.36,9.02,36.86,0],["tree_2",77.67,25.15,7.33,37.27,1],["tree_3",90.43,25.89,7.68,38.32,1],["tree_3",59.43,31.64,4.62,39.12,1],["tree_2",-0.38,22.91,10.1,39.6,1],["tree_2",71.34,26.9,7.73,39.68,0],["birch",89.57,16.65,10.59,40.71,0],["fg_7",61,38.7,4.5,41.0,1],["tree_3",-4.21,29.1,8.46,42.8,0],["tree_3",18.37,32.35,6.72,43.22,1],["birch",96.64,22.67,9.4,44.03,1],["tree_3",-4.25,34.07,7.07,45.51,1],["tree_2",96.53,32.91,8.34,46.7,1],["birch",16.7,34.13,5.58,46.81,0],["tree_1",-0.24,24.87,8.78,47.67,1],["tree_3",94.07,32.84,9.91,48.87,1],["birch",77.86,36.46,5.58,49.14,1],["lamp",44.66,44.68,1.7,49.74,0],["tree_2",-8.28,34.94,9.07,49.93,0],["tree_3",89.38,33.43,10.67,50.7,1],["tree_3",16.58,42.51,5.1,50.76,1],["tree_1",81.25,38.48,5.26,52.16,0],["birch",-0.72,32.58,8.99,53.01,0],["tree_3",16.54,41.59,7.39,53.55,0],["tree_3",93.7,42.35,7.17,53.95,0],["tree_3",75.28,46.56,5.06,54.75,1],["tree_2",0.85,39.08,9.59,54.93,1],["birch",19.76,42.09,6.08,55.9,1],["tree_2",95.41,39.78,10.16,56.57,1],["tree_3",75.22,48.62,5.32,57.22,0],["tree_1",-7.83,30.22,10.44,57.33,1],["lamp",56.31,52.42,1.7,57.48,0],["tree_2",27.82,50.6,4.69,58.35,0],["fg_6",74,56.64,4,59.0,0],["tree_3",94.57,45.17,9.02,59.77,1],["stump",36,57.96,4.5,60.0,0],["tree_2",-8.75,42.88,10.5,60.24,0],["tree_1",79.37,46.99,5.4,61.03,1],["tree_2",-3.33,44.5,10.79,62.33,1],["birch",14.57,47.6,6.53,62.43,0],["tree_2",95.77,50.17,7.81,63.07,0],["tree_2",-4.97,51.29,7.83,64.24,1],["lamp",45.63,60.85,1.7,65.91,0],["tree_3",90.24,53.62,7.71,66.1,0],["tree_2",17.48,54.74,6.93,66.2,1],["tree_1",77.26,50.65,6.39,67.26,0],["tree_2",-2.45,53.85,8.14,67.31,1],["birch",93.81,47.69,8.92,67.96,0],["birch",-7.43,48.3,9.22,69.26,1],["tree_3",94.44,56.75,8.14,69.92,0],["tree_2",76.78,59.04,6.96,70.54,1],["tree_2",-2.74,56.02,9.25,71.3,0],["birch",96.62,53.18,8.32,72.1,0],["tree_3",18.11,59.82,7.94,72.67,1],["tree_1",90.21,52.93,8.11,74.0,1],["tree_3",0.75,61.06,8.1,74.16,1],["tree_3",-6.31,64.49,7.19,76.13,0],["tree_3",18.49,65.67,6.56,76.28,1],["tree_2",78.78,65.24,6.84,76.53,1],["tree_2",93.7,61.04,9.68,77.04,1],["lamp",50.38,72.1,1.7,77.16,0],["tree_3",0.77,66.86,7.65,79.23,1],["tree_2",78.09,70.21,5.46,79.23,1],["tree_1",19.84,63.74,6.14,79.69,0],["tree_2",92.4,67.57,7.54,80.02,1],["tree_3",-4.8,66.64,9.37,81.79,1],["tree_3",99.64,68.85,8.69,82.91,0],["tree_3",20.02,75.35,5.22,83.8,1],["tree_3",-8.73,66.91,10.79,84.36,0],["tree_2",93.23,71.0,8.98,85.85,0],["tree_2",-3.23,71.65,9.34,87.09,0],["tree_3",15.22,75.06,7.67,87.47,1],["birch",99.27,69.17,8.75,89.05,0],["tree_2",-0.54,72.16,10.64,89.75,0],["tree_3",18.73,79.1,7.42,91.11,1],["snowman",43,88.54,2.8,92.0,0],["tree_2",97.48,74.36,10.86,92.31,1],["tree_3",-0.42,81.32,7.26,93.06,1],["tree_3",91.42,80.14,8.88,94.51,0],["tree_2",12.92,82.56,7.32,94.65,0],["fg_5",33,91.98,5,95.0,0],["tree_2",0.48,81.4,8.81,95.97,0],["tree_3",25.71,87.67,5.53,96.61,0],["tree_2",79.91,87.79,5.69,97.19,0],["birch",91.65,76.97,9.16,97.79,0],["fg_7",52,95.95,4,98.0,0],["tree_2",16.35,85.92,7.46,98.26,0],["tree_3",1.23,87.33,7.12,98.85,1],["tree_3",94.88,83.69,9.87,99.65,1],["tree_2",27.34,91.46,5.1,99.89,1],["bush",73,97.52,5,101.0,1],["tree_2",15.02,93.25,5.22,101.89,0],["tree_3",-4.0,85.9,9.92,101.95,1],["tree_2",41.7,92.69,5.84,102.34,1],["tree_3",93.24,89.61,8.13,102.77,1],["birch",72.85,88.07,7.0,103.98,1]],"items":{"quiz":{"el":[24,2.5,20],"med":[46.4,7],"pn":[3,7,19],"h":20.81},"serial":{"el":[58,13,18],"pn":[79,15,19],"h":16.5},"forest":{"el":[25,32,19],"med":[49.5,37.5],"pn":[3,37,19],"h":20.15},"izba":{"el":[59,44,16],"pn":[79,45,19],"h":16.06},"tree":{"el":[27,62,15],"med":[49.2,67.5],"pn":[3,67,19],"h":22.56},"ctree":{"el":[55,61,23],"pn":[79,65,19],"h":27.6},"chest":{"el":[60,86,12],"pn":[79,86.5,19],"h":10.27}},"fences":[[[50.95,3.03],[50.2,4.68],[49.67,5.84],[49.25,6.92],[48.92,8.12],[48.79,9.36],[48.78,10.39],[48.88,11.78],[49.04,12.78],[49.41,14.17],[49.84,15.19]],[[49.41,23.32],[50.04,24.42],[50.6,25.56],[50.96,26.54],[51.11,27.33],[51.09,27.91],[50.69,28.95],[50.05,30.07],[49.5,30.93],[48.61,32.34],[47.91,33.37],[46.9,34.57]],[[49.92,44.32],[50.25,45.68],[50.6,46.7],[51.12,47.58],[51.71,48.24],[52.81,49.32],[53.91,50.41],[55.32,52.2],[56.16,53.96],[56.74,55.67],[57.06,57.49],[56.95,60.06]]],"roadW":3.4,"trailW":1.4}};
 const RSPR={drift:'obstacle_drift',stump:'obstacle_stump'};
 let RM_H=100;
 const pc=(a,z)=>`left:${a[0]}%;top:${(a[1]/RM_H*100).toFixed(3)}%${a[2]!=null?`;width:${a[2]}%`:''}${z!=null?`;z-index:${z}`:''}`;

diff --git a/README.md b/README.md
@@ -632,8 +632,9 @@ PSB_NY_prototype/
 
 **Как рисуем маскотов** (решение 28 октября)
 - **Лапы** — у всех героев на всех картинках пять пальцев, как у руки, и ладонь того же светлого меха, что и вся лапа: без темных подушечек. Поднятая лапа развернута естественно.
-- **Каждого легко узнать.** У героев разные наряды и приметы: Михаил — Дед Мороз в синей шубе с серебряным узором, высокой шапке и с посохом; Мария — длинные темные волосы со снежинками, нарядное синее платье с мехом; Пётр — рыжий чуб, синий кафтан со снежинками; София — рыжее каре и синий бант, синее платье; Борис — костюм скомороха: синий бархат с золотой вышивкой, красный зубчатый воротник, колпак с бубенцами.
+- **Каждого легко узнать.** У героев разные наряды и приметы: Михаил — Дед Мороз в синей шубе с серебряным узором, высокой шапке, синих варежках и с посохом, в навершии которого солнце и месяц; Мария — длинные темные волосы со снежинками, нарядное синее платье с мехом; Пётр — светло-рыжий чуб и рыжие брови, синий кафтан со снежинками; София — медно-рыжее каре с косой чёлкой и синий бант, синее платье; Борис — костюм скомороха: синий бархат с золотой вышивкой, красный зубчатый воротник, колпак с бубенцами.
 - **Возраст и рост.** Борис — малыш с детской мордочкой; Пётр — подросток: выше и стройнее брата, длиннее руки и ноги, голова меньше относительно тела, чуть ниже родителей; София — между ними. Размеры героев сверяем на всех картинках.
+- **Эталон и проверка** (решение 30 октября). Эталон — портреты семьи из концепции, Борис — в костюме скомороха. Приметы, запреты, текст для промптов и чек-лист — в документе «Медведи: канон персонажей и проверка картинок». Картинку с героями перед отправкой проверяет по чек-листу не тот, кто её генерировал.
 
 ---
 
@@ -907,6 +908,7 @@ PSB_NY_prototype/
 | 85 | Книга — уголки | Снежные углы рамки не обрываются резко: края растворяются | 5 |
 | 86 | Избушка — список сказок | Список из 10 сказок окончательный, у каждой — обложка | 6.10 |
 | 87 | Главная — дорога | 30 октября: карта — не лента карточек, а дорога. Вечером — слоями, а не склейкой картинок: снежный фон, светящаяся дорога с ответвлениями, фонарями и заборчиками, лес и мелочи из игры «Лес», поверх — отдельные элементы: три испытания на главной тропе, ветки — сериал, избушка, общая ёлка с сундуком. Подписи короткие: название, состояние, кнопка. На компьютере — ховер: элемент светится, герой говорит реплику. Общая ёлка на главной — живая, с шарами коллег | 5, 6.3, 13 |
+| 88 | Канон персонажей | 30 октября: приметы, рост, наряды и запреты для каждого героя, текст для промптов и чек-лист проверки — в документе «Медведи: канон персонажей и проверка картинок». Картинку проверяет второй человек до отправки | 8 |
 
 ### 14.2. Картинки для игрушек и персональные данные
 
